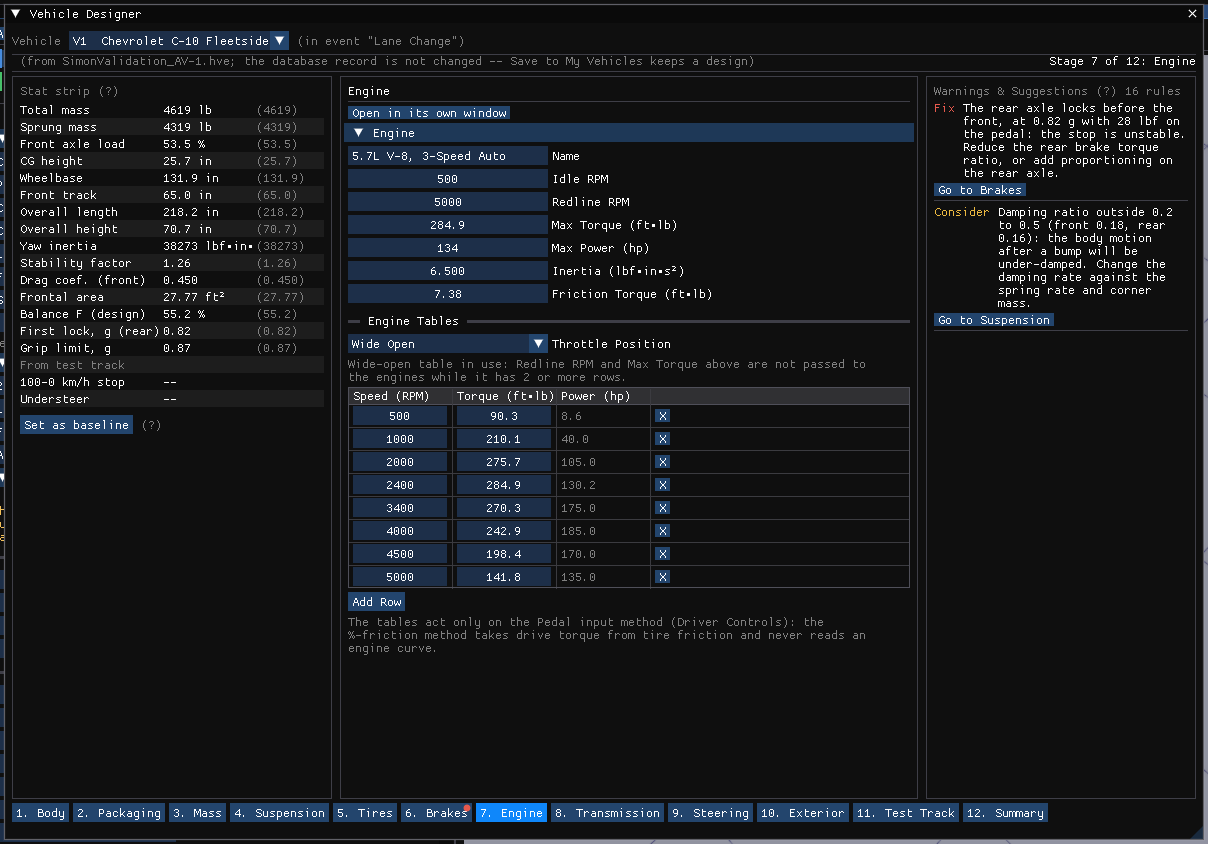
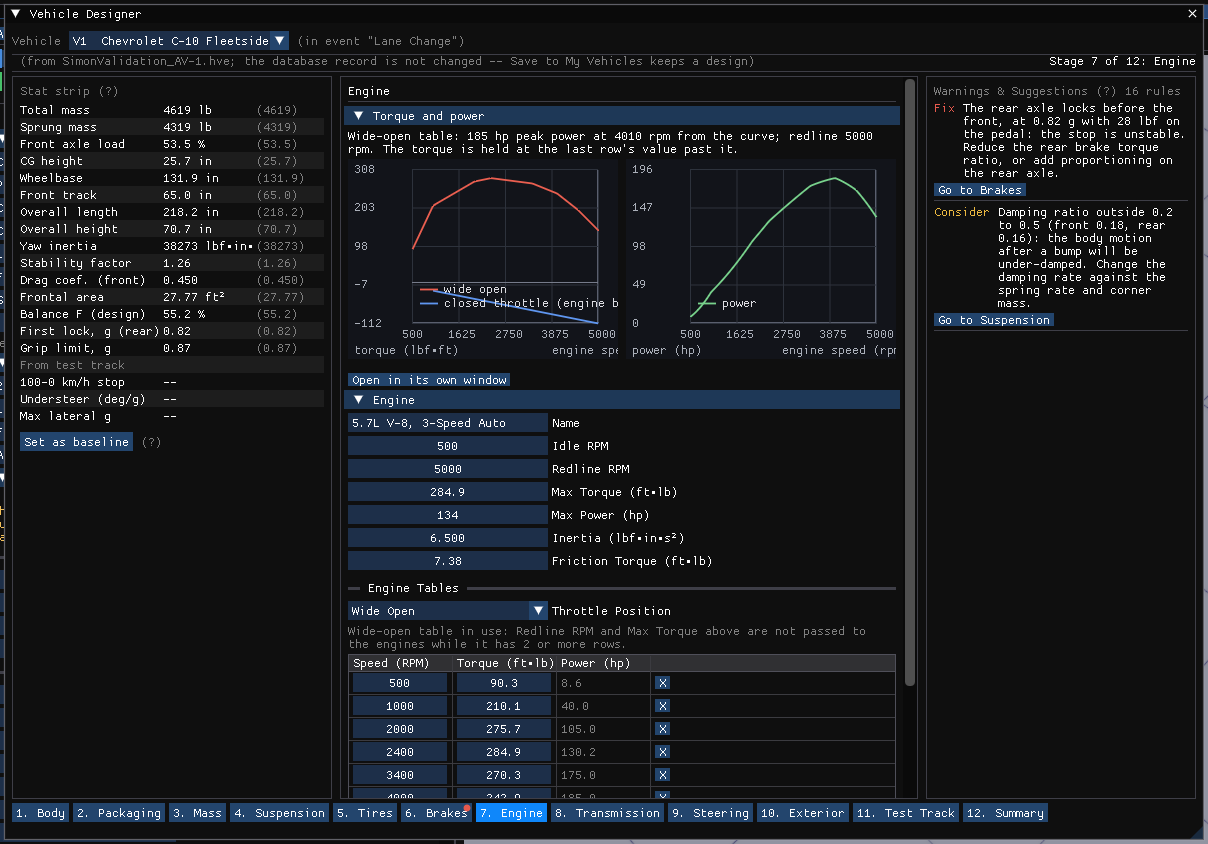
HVE 2027 manuals: sync from hve-next 3ffeafc0
Vehicle Designer: one plot per input stage (M6); seven figures reshot.

Claude-Session: https://claude.ai/code/session_01ExFGmXKkveRikV1Nmb9fu5

Changed region(s): [[0.2757, 0.0924, 0.7657, 0.955], [0.0, 0.4621, 0.1225, 0.5545], [0.6126, 0.2464, 0.6432, 0.3081]]

diff --git a/hve2027/docs/manuals/hve-users/04-vehicle-editor/12-vehicle-designer.md b/hve2027/docs/manuals/hve-users/04-vehicle-editor/12-vehicle-designer.md
@@ -50,8 +50,10 @@ Track and Summary stages say what they will do and do nothing yet.
 
 ### Stage 2: Packaging
 
-The Packaging stage holds the dimensions a solve reads. It opens with the two
-sections the Vehicles panel has: **Configuration** (number of axles, driver
+The Packaging stage holds the dimensions a solve reads. It opens with **Axle
+loads**, the static load on each axle from the mass and the weight split, and
+where the CG sits along the wheelbase. Under it are the two sections the
+Vehicles panel has: **Configuration** (number of axles, driver
 location, engine location and drive axles, with HVE's rules applied as you
 change one) and **Size & Weight** (HVE's Vehicle Wizard form, applied as you
 type: wheelbase, tracks, lengths, weights and CG, with the wheelbase check and
@@ -73,7 +75,11 @@ vehicle is the window's job, reached by **Open in its own window**.
 
 ### Stage 3: Mass
 
-The Mass stage hosts the **Inertia / Mass** editor that the Vehicles panel's
+The Mass stage opens with **Stated against estimated inertia**: the roll, pitch
+and yaw inertias the vehicle states against EDC's estimate from mass alone (its
+power-law fits), the estimate drawn hatched because it is a regression, not
+this vehicle; a stated value far from the fit is worth a look. Under it the
+stage hosts the **Inertia / Mass** editor that the Vehicles panel's
 Inertia **Edit...** opens: total and sprung mass, the CG location, the roll,
 pitch and yaw inertias and the product of inertia, each in the stored basis and
 the other basis side by side, and what is aboard (occupants and cargo). One
@@ -83,6 +89,14 @@ window.
 ![Figure 12-10: the Mass stage hosting the Inertia / Mass editor](../images/hvn-04-vehicle-designer-mass.png)
 
 ### Stage 4: Suspension
+
+The Suspension stage opens with **Ride and roll**: each axle's ride frequency
+and damping ratio, with the body's response to a unit bump drawn for the front
+and rear corner (a quarter of the sprung mass on its spring and damper), and
+the roll gradient in degrees per g with the roll stiffness split front to rear.
+The roll axis is at the stated roll centers, or at the ground when none is
+stated, and the headline says which. These are the numbers the damping and
+roll-split rules judge.
 
 The Suspension stage hosts the suspension editor itself: the same **Springs &
 Dampers** table and the four advanced tabs that **Vehicle › Suspension Data...**
@@ -96,6 +110,11 @@ the run is reset.
 ![Figure 12-4: the Suspension stage hosting the suspension editor](../images/hvn-04-vehicle-designer-suspension.png)
 
 ### Stage 5: Tires
+
+The Tires stage opens with **Peak friction against load**: each axle's peak
+longitudinal friction from zero to twice its static tire load, read from the
+tire's load table where it has one (a constant otherwise), with the static load
+marked. This is the capacity the Brakes chart divides the brake force by.
 
 The Tires stage hosts the tire editor: the same **Tire Properties** table, the
 tire-size and database tools and the **Load & Speed Tables** panel that
@@ -213,6 +232,12 @@ rather than a measurement) arrives with the Mass stage.
 
 ### Stage 7: Engine
 
+The Engine stage opens with **Torque and power**: the wide-open torque curve
+and the power it implies against engine speed, from idle to the redline, with
+the closed-throttle curve (engine braking) when one is stated. Without a
+wide-open table the flat maximum torque is drawn, which is what the engines
+receive.
+
 The Engine stage hosts the **Engine** section of the Drivetrain editor that
 **Vehicle › Drivetrain...** opens: the engine's name, idle and redline rpm,
 maximum torque and power, rotational inertia, friction torque, and the **Engine
@@ -226,6 +251,13 @@ Drivetrain window.
 
 ### Stage 8: Transmission
 
+The Transmission stage opens with **Tractive effort**: the force at the tires
+in each gear against road speed (the wide-open torque through the gear and the
+final drive, times the efficiency, over the tire radius), with the road load of
+drag and rolling resistance across it. The markers show the rev limit in top
+gear and where the road load meets the power; the headline says which of the
+two sets the top speed, as the rev-limit rule does.
+
 The Transmission stage hosts the other three sections of the Drivetrain editor:
 **Transmission** (automatic or manual with the shift rpm window, the number of
 gears and their ratios with reverse, the final drive ratio, efficiency, shift
@@ -237,6 +269,12 @@ opens the whole Drivetrain window.
 ![Figure 12-9: the Transmission stage hosting the Drivetrain editor's driveline sections](../images/hvn-04-vehicle-designer-transmission.png)
 
 ### Stage 9: Steering
+
+The Steering stage opens with **Yaw-rate gain**: the yaw rate per degree at
+the steering wheel against speed, from the steering ratio and the wheelbase.
+Until the Test Track has measured the understeer gradient the curve assumes
+neutral steer and says so; with the measurement it falls off above the
+characteristic speed, which is marked.
 
 The Steering stage hosts the steering editor: the per-axle table that
 **Vehicle › Steering System...** opens (steerable axle, steer ratio, the steering
